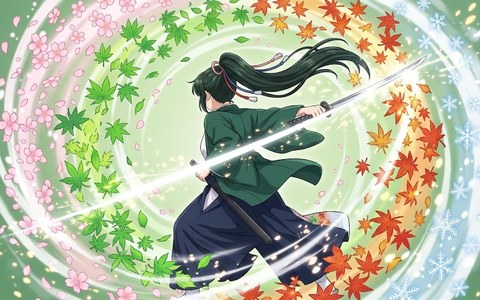
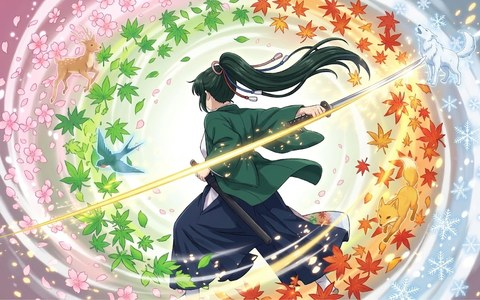
秘剣・巡り咲きの絵を豪華な版に差し替える
Claude-Session: https://claude.ai/code/session_01KUBHA7UuAd47hC4jVuPhk6

diff --git a/src/setting/shiki/index.html b/src/setting/shiki/index.html
@@ -254,10 +254,10 @@ textarea{width:100%;font-family:var(--f-body);font-size:.8rem;line-height:1.65;b
         <textarea id="p_k_hyoka" rows="5" readonly aria-label="環流・氷華のプロンプト">オリジナルキャラクターのアニメ調イラスト。線は細め、日本のアニメらしいやわらかいセル塗り、鮮やかな色。横長（16:10）の構図で、描くものを画面の中央に置く。端は切れてもいいように余白をとる。白いふちどりや枠は付けず、背景を画面いっぱいに描く。絵の中に文字・ロゴ・数字を入れない。既存の作品やキャラクターに似せない。
 和風の四季の世界。春は桜、夏は青葉と入道雲、秋は紅葉、冬は雪。季節がぐるぐると巡る。和装の剣士・環（たまき）と、4匹の相棒（鹿の霞、ツバメの青嵐、キツネの稲穂、白いオオカミの六花）。色は季節ごとに変わるが、全体はやわらかい緑と自然の光。背景や小物は「描くもの」に合わせて決め、毎回同じ構図をくり返さない。キャラクター（環、霞、青嵐、稲穂、六花）は画面の中で大きく描き、見た目は添付した設定画に合わせる。
 描くもの：環（18歳くらいの女性の剣士。深い緑がかった黒髪を4色の組紐で高い位置にまとめる。琥珀色の目。白い着物に深い緑の羽織、紺の袴。刀の鍔は輪の形で4色の玉）が、雪の上を低い姿勢ですべりながら、すれちがいざまに斬り抜けた瞬間。通った跡に、氷の花が一列に咲いていく。雪けむりが舞う。斜めの構図と強い遠近感、スピード線で、躍動感を強く出す。髪、組紐、羽織が大きくなびく。腕は2本だけ。刀は1本で、刃は鍔の片側だけ。</textarea></div>
-      <div class="pitem"><div class="copyhead"><div><b>秘剣・巡り咲き</b> <span class="done">絵あり</span><br><small>アーツ・RR　添付：環（1回目は添付なし）＋4匹（光の姿なのでなくてもいい）</small></div><span><button class="btn" type="button" data-copy="p_k_meguri">コピー</button> <span class="msg" data-msg="p_k_meguri" aria-live="polite"></span></span></div>
+      <div class="pitem"><div class="copyhead"><div><b>秘剣・巡り咲き</b> <span class="done">絵あり</span><br><small>アーツ・RR　添付：環</small></div><span><button class="btn" type="button" data-copy="p_k_meguri">コピー</button> <span class="msg" data-msg="p_k_meguri" aria-live="polite"></span></span></div>
         <textarea id="p_k_meguri" rows="5" readonly aria-label="秘剣・巡り咲きのプロンプト">オリジナルキャラクターのアニメ調イラスト。線は細め、日本のアニメらしいやわらかいセル塗り、鮮やかな色。横長（16:10）の構図で、描くものを画面の中央に置く。端は切れてもいいように余白をとる。白いふちどりや枠は付けず、背景を画面いっぱいに描く。絵の中に文字・ロゴ・数字を入れない。既存の作品やキャラクターに似せない。
 和風の四季の世界。春は桜、夏は青葉と入道雲、秋は紅葉、冬は雪。季節がぐるぐると巡る。和装の剣士・環（たまき）と、4匹の相棒（鹿の霞、ツバメの青嵐、キツネの稲穂、白いオオカミの六花）。色は季節ごとに変わるが、全体はやわらかい緑と自然の光。背景や小物は「描くもの」に合わせて決め、毎回同じ構図をくり返さない。キャラクター（環、霞、青嵐、稲穂、六花）は画面の中で大きく描き、見た目は添付した設定画に合わせる。
-描くもの：環（18歳くらいの女性の剣士。深い緑がかった黒髪を4色の組紐で高い位置にまとめる。琥珀色の目。白い着物に深い緑の羽織、紺の袴。刀の鍔は輪の形で4色の玉）が、高く跳び上がり、正面から両手で刀を大きく振り下ろす瞬間。決意の表情でこちらを見る。その背後で、桜・青葉・紅葉・雪の巨大な輪が爆発するように一斉に花開き、金色の光と火花が四方に飛び散る。輪にそって、霞（桜の角の鹿）、青嵐（青いツバメ）、稲穂（灯りのしっぽのキツネ）、六花（雪の模様の白いオオカミ）が、光の姿になって駆けている。豪華で、きらびやかで、いちばん派手な切り札の絵。斜めの構図と強い遠近感、スピード線で、躍動感を強く出す。髪、組紐、羽織が大きくなびく。腕は2本だけ。刀は1本で、刃は鍔の片側だけ。</textarea></div>
+描くもの：桜・青葉・紅葉・雪が大きな輪になって渦巻き、その中心で、環（深い緑がかった黒髪を4色の組紐で高い位置にまとめる。深い緑の羽織、紺の袴）が後ろ姿で刀を振り抜く。刀の軌跡は、画面を横切る太くてまぶしい金色の光の線。輪の花と葉が、刀の光にあわせて一斉に咲き乱れ、外へ爆発するように舞い散る。輪の4か所に、季節の相棒が光の姿で小さく浮かぶ（桜のところに鹿、青葉にツバメ、紅葉にキツネ、雪に白いオオカミ）。金の火花と光の粒。背景は中心が白く光り、外へ向かって季節の色に変わる。豪華で派手な切り札の絵。腕は2本だけ。刀は1本で、刃は鍔の片側だけ。</textarea></div>
     </div>
     <h3 class="ptitle">キャラが出ない絵</h3>
     <div class="plist">
